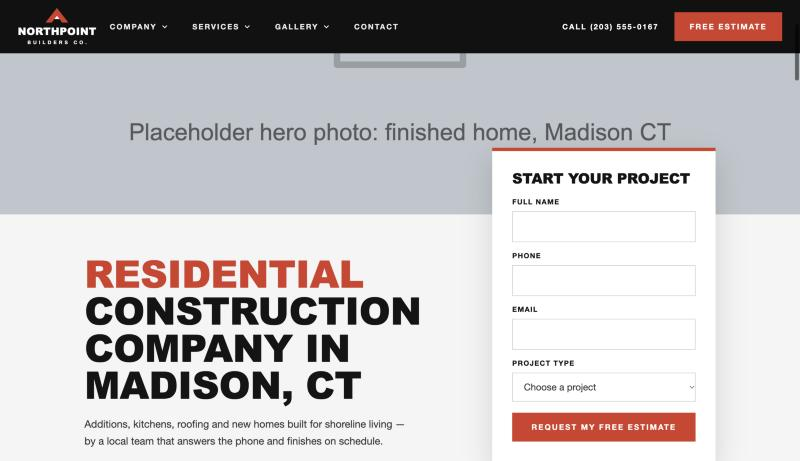
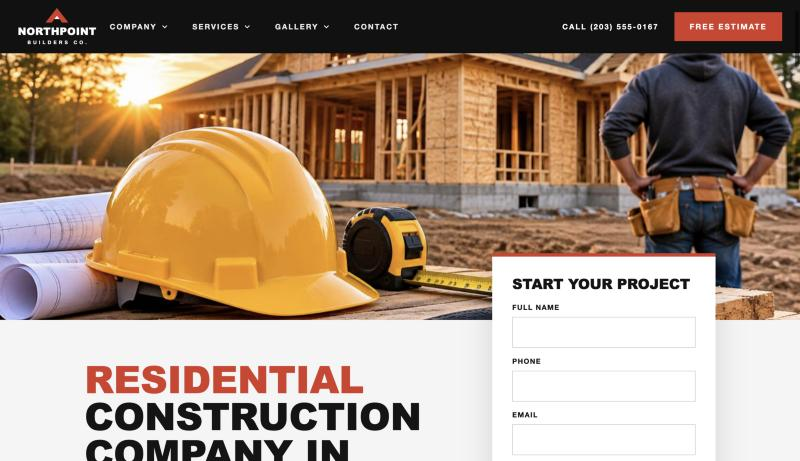
Use construction photo for Northpoint hero
- Add compressed construction-hero JPEGs (1600px and 900px) with srcset
- Point hero, preload, og:image and JSON-LD at the new photo
- Remove the placeholder hero SVG
- Refresh the Northpoint thumbnail on the Work page

diff --git a/NorthpointBuilders/index.html b/NorthpointBuilders/index.html
@@ -8,11 +8,11 @@
 <link rel="canonical" href="https://www.northpointbuilders.example/index.html">
 <meta property="og:title" content="Residential Construction Company in Madison, CT | Northpoint Builders Co.">
 <meta property="og:description" content="Northpoint Builders Co. designs and builds additions, kitchens, roofing, outdoor living and custom coastal homes in Madison, Guilford, Branford and the Connecticut shoreline. Free estimates.">
-<meta property="og:image" content="https://www.northpointbuilders.example/img/hero/hero-home-madison-ct.svg">
+<meta property="og:image" content="https://www.northpointbuilders.example/img/hero/construction-hero.jpg">
 <meta property="og:url" content="https://www.northpointbuilders.example/index.html">
 <meta property="og:type" content="website">
 <link rel="icon" type="image/svg+xml" href="img/icons/favicon.svg">
-<link rel="preload" href="img/hero/hero-home-madison-ct.svg" as="image">
+<link rel="preload" as="image" href="img/hero/construction-hero.jpg" imagesrcset="img/hero/construction-hero-900.jpg 900w, img/hero/construction-hero.jpg 1600w" imagesizes="100vw">
 <style>
   body{margin:0;font-family:'Inter','Helvetica Neue',Arial,sans-serif}
   .site-header{position:sticky;top:0;z-index:100;background:#111;color:#fff;min-height:72px}
@@ -107,7 +107,7 @@
 <main id="main">
 
 <div class="hero-photo">
-  <img src="img/hero/hero-home-madison-ct.svg" width="1600" height="700" alt="" fetchpriority="high">
+  <img src="img/hero/construction-hero.jpg" srcset="img/hero/construction-hero-900.jpg 900w, img/hero/construction-hero.jpg 1600w" sizes="100vw" width="1600" height="900" alt="" fetchpriority="high">
 </div>
 <section class="hero-band" aria-labelledby="hero-h1">
   <div class="wrap hero-grid">
@@ -363,7 +363,7 @@
   "@context": "https://schema.org",
   "@type": "GeneralContractor",
   "name": "Northpoint Builders Co.",
-  "image": "https://www.northpointbuilders.example/img/hero/hero-home-madison-ct.svg",
+  "image": "https://www.northpointbuilders.example/img/hero/construction-hero.jpg",
   "telephone": "+1-203-555-0167",
   "email": "hello@northpointbuilders.example",
   "priceRange": "$$$",

diff --git a/NorthpointBuilders/services.html b/NorthpointBuilders/services.html
@@ -8,7 +8,7 @@
 <link rel="canonical" href="https://www.northpointbuilders.example/services.html">
 <meta property="og:title" content="Residential Construction Services | Northpoint Builders Co. | Madison, CT">
 <meta property="og:description" content="Additions and garages, kitchens and baths, roofing and siding, windows and doors, outdoor living, and custom coastal homes from Northpoint Builders Co. in Madison, CT.">
-<meta property="og:image" content="https://www.northpointbuilders.example/img/hero/hero-home-madison-ct.svg">
+<meta property="og:image" content="https://www.northpointbuilders.example/img/hero/construction-hero.jpg">
 <meta property="og:url" content="https://www.northpointbuilders.example/services.html">
 <meta property="og:type" content="website">
 <link rel="icon" type="image/svg+xml" href="img/icons/favicon.svg">
@@ -298,7 +298,7 @@
   "@context": "https://schema.org",
   "@type": "GeneralContractor",
   "name": "Northpoint Builders Co.",
-  "image": "https://www.northpointbuilders.example/img/hero/hero-home-madison-ct.svg",
+  "image": "https://www.northpointbuilders.example/img/hero/construction-hero.jpg",
   "telephone": "+1-203-555-0167",
   "email": "hello@northpointbuilders.example",
   "priceRange": "$$$",

diff --git a/NorthpointBuilders/gallery.html b/NorthpointBuilders/gallery.html
@@ -8,7 +8,7 @@
 <link rel="canonical" href="https://www.northpointbuilders.example/gallery.html">
 <meta property="og:title" content="Project Gallery | Northpoint Builders Co. | Madison, CT">
 <meta property="og:description" content="Browse additions, garages, kitchens, baths, roofing, siding, decks and custom coastal homes built by Northpoint Builders Co. across the Connecticut shoreline.">
-<meta property="og:image" content="https://www.northpointbuilders.example/img/hero/hero-home-madison-ct.svg">
+<meta property="og:image" content="https://www.northpointbuilders.example/img/hero/construction-hero.jpg">
 <meta property="og:url" content="https://www.northpointbuilders.example/gallery.html">
 <meta property="og:type" content="website">
 <link rel="icon" type="image/svg+xml" href="img/icons/favicon.svg">
@@ -266,7 +266,7 @@
   "@context": "https://schema.org",
   "@type": "GeneralContractor",
   "name": "Northpoint Builders Co.",
-  "image": "https://www.northpointbuilders.example/img/hero/hero-home-madison-ct.svg",
+  "image": "https://www.northpointbuilders.example/img/hero/construction-hero.jpg",
   "telephone": "+1-203-555-0167",
   "email": "hello@northpointbuilders.example",
   "priceRange": "$$$",

diff --git a/NorthpointBuilders/about.html b/NorthpointBuilders/about.html
@@ -8,7 +8,7 @@
 <link rel="canonical" href="https://www.northpointbuilders.example/about.html">
 <meta property="og:title" content="About Us | Northpoint Builders Co. | Madison, CT">
 <meta property="og:description" content="Northpoint Builders Co. is a family-owned residential construction company in Madison, CT, building on the Connecticut shoreline since 2006.">
-<meta property="og:image" content="https://www.northpointbuilders.example/img/hero/hero-home-madison-ct.svg">
+<meta property="og:image" content="https://www.northpointbuilders.example/img/hero/construction-hero.jpg">
 <meta property="og:url" content="https://www.northpointbuilders.example/about.html">
 <meta property="og:type" content="website">
 <link rel="icon" type="image/svg+xml" href="img/icons/favicon.svg">
@@ -261,7 +261,7 @@
   "@context": "https://schema.org",
   "@type": "GeneralContractor",
   "name": "Northpoint Builders Co.",
-  "image": "https://www.northpointbuilders.example/img/hero/hero-home-madison-ct.svg",
+  "image": "https://www.northpointbuilders.example/img/hero/construction-hero.jpg",
   "telephone": "+1-203-555-0167",
   "email": "hello@northpointbuilders.example",
   "priceRange": "$$$",

diff --git a/NorthpointBuilders/contact.html b/NorthpointBuilders/contact.html
@@ -8,7 +8,7 @@
 <link rel="canonical" href="https://www.northpointbuilders.example/contact.html">
 <meta property="og:title" content="Free Estimate | Northpoint Builders Co. | Madison, CT">
 <meta property="og:description" content="Request a free, on-site estimate from Northpoint Builders Co. in Madison, CT. Call (203) 555-0167 or send us your project details.">
-<meta property="og:image" content="https://www.northpointbuilders.example/img/hero/hero-home-madison-ct.svg">
+<meta property="og:image" content="https://www.northpointbuilders.example/img/hero/construction-hero.jpg">
 <meta property="og:url" content="https://www.northpointbuilders.example/contact.html">
 <meta property="og:type" content="website">
 <link rel="icon" type="image/svg+xml" href="img/icons/favicon.svg">
@@ -246,7 +246,7 @@
   "@context": "https://schema.org",
   "@type": "GeneralContractor",
   "name": "Northpoint Builders Co.",
-  "image": "https://www.northpointbuilders.example/img/hero/hero-home-madison-ct.svg",
+  "image": "https://www.northpointbuilders.example/img/hero/construction-hero.jpg",
   "telephone": "+1-203-555-0167",
   "email": "hello@northpointbuilders.example",
   "priceRange": "$$$",

diff --git a/NorthpointBuilders/thank-you.html b/NorthpointBuilders/thank-you.html
@@ -9,7 +9,7 @@
 <link rel="canonical" href="https://www.northpointbuilders.example/thank-you.html">
 <meta property="og:title" content="Thank You | Northpoint Builders Co.">
 <meta property="og:description" content="Thanks for contacting Northpoint Builders Co.">
-<meta property="og:image" content="https://www.northpointbuilders.example/img/hero/hero-home-madison-ct.svg">
+<meta property="og:image" content="https://www.northpointbuilders.example/img/hero/construction-hero.jpg">
 <meta property="og:url" content="https://www.northpointbuilders.example/thank-you.html">
 <meta property="og:type" content="website">
 <link rel="icon" type="image/svg+xml" href="img/icons/favicon.svg">

diff --git a/NorthpointBuilders/404.html b/NorthpointBuilders/404.html
@@ -9,7 +9,7 @@
 <link rel="canonical" href="https://www.northpointbuilders.example/404.html">
 <meta property="og:title" content="Page Not Found | Northpoint Builders Co.">
 <meta property="og:description" content="That page could not be found.">
-<meta property="og:image" content="https://www.northpointbuilders.example/img/hero/hero-home-madison-ct.svg">
+<meta property="og:image" content="https://www.northpointbuilders.example/img/hero/construction-hero.jpg">
 <meta property="og:url" content="https://www.northpointbuilders.example/404.html">
 <meta property="og:type" content="website">
 <link rel="icon" type="image/svg+xml" href="img/icons/favicon.svg">
